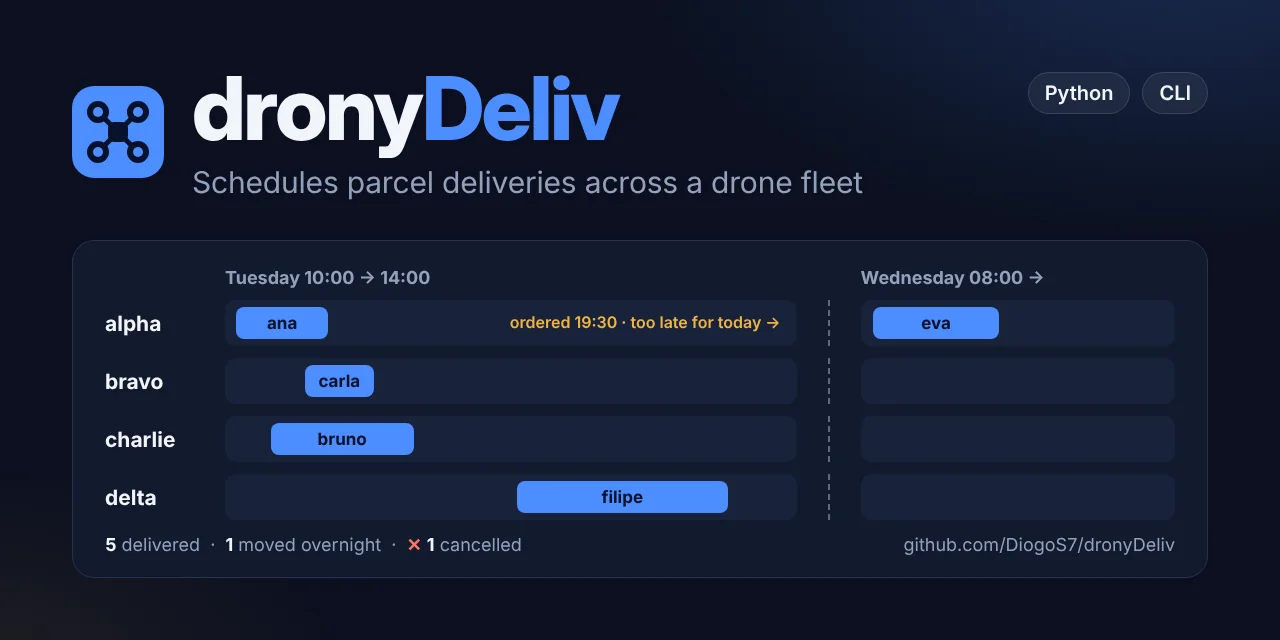
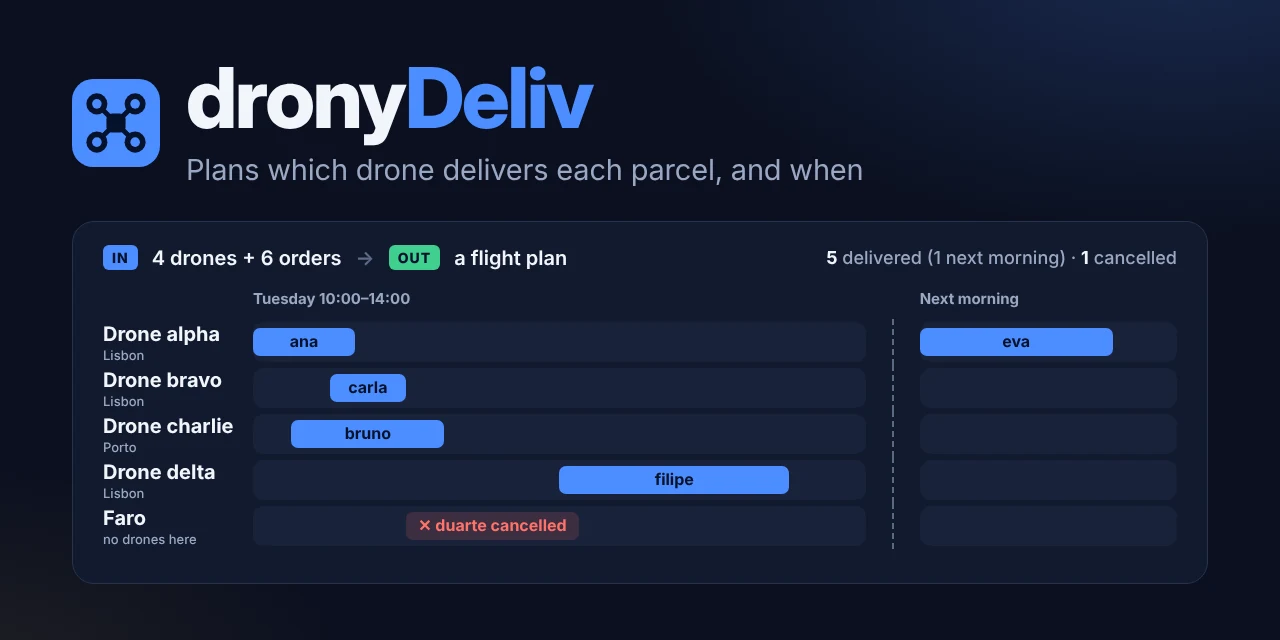
dronyDeliv: new cover, how-it-works and example schedule images

diff --git a/assets/js/data.js b/assets/js/data.js
@@ -209,10 +209,11 @@ const CV = {
       skills:["Python","Testing & QA","Automated testing & CI","Git & GitHub"],
       context:"FCUL group project · 2019, refactored 2026",
       shots:[
-        {src:"assets/img/shots/drony-cover.webp", caption:"dronyDeliv: schedules parcel deliveries across a drone fleet"},
-        {src:"assets/img/shots/drony-timeline.svg", caption:"Example run: 4 drones, 6 orders. Which drone flew which order, and when"},
+        {src:"assets/img/shots/drony-cover.webp?v=2", caption:"dronyDeliv: schedules parcel deliveries across a drone fleet"},
+        {src:"assets/img/shots/drony-how-it-works.webp", caption:"How it works: two files go in (the drone fleet and new orders), it picks a drone for each order, and two files come out (the delivery timetable and the updated fleet)"},
+        {src:"assets/img/shots/drony-example-schedule.webp", caption:"Example run for a made-up Solenne Biosciences fleet: 4 drones, 6 orders. Each row is a drone, each bar one delivery there and back"},
       ],
-      details:["Built in 2019 as the group project for Programação 1 at FCUL","Handles battery range, payload weight, operating hours and service areas","Refactored in 2026 into a tested, installable package with CI"] },
+      details:["Built in 2019 as the group project for Programação 1 at FCUL","Handles battery range, payload weight, operating hours and service areas","Sample run: 5 parcels delivered, 1 moved to the next morning because the trip would end after drones stop flying, and 1 cancelled because no drone works in Faro","Refactored in 2026 into a tested, installable package with CI"] },
   ],
   journey: [
     { type:"edu", when:"Sep 2019 – Jul 2020", year:"2019", title:"Bachelor in Information Technology", org:"Faculty of Sciences, University of Lisbon (FCUL)",

diff --git a/index.html b/index.html
@@ -106,7 +106,7 @@
   </div>
 </div>
 <footer><div class="wrap">© 2026 Diogo Santos · Business analyst &amp; QA consultant · Lisbon, Portugal</div></footer>
-<script src="assets/js/data.js?v=20261111-2"></script>
+<script src="assets/js/data.js?v=20261111-3"></script>
 <script src="assets/js/app.js?v=20261101-5"></script>
 </body>
 </html>
